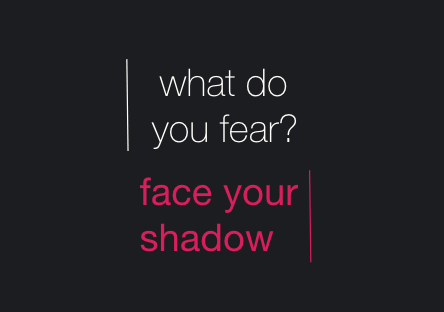
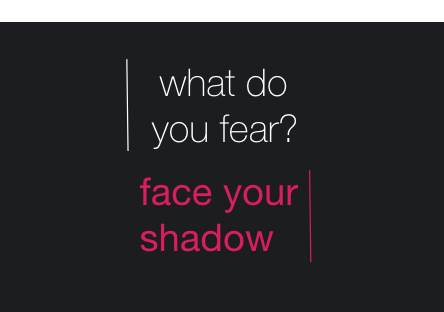
fixed file navigation to images, and cropped some images too

Changed region(s): [[0.0, 0.0, 1.0, 0.0865]]

diff --git a/index.html b/index.html
@@ -35,13 +35,13 @@
                 </ol>
                 <div class="carousel-inner">
                   <div class="carousel-item active">
-                    <img src="/assets/agassiDribbble.png" class="d-block w-100" alt="...">
+                    <img src="assets/agassiDribbble.png" class="d-block w-100" alt="...">
                   </div>
                   <div class="carousel-item">
-                    <img src="/assets/deleDribbble.png" class="d-block w-100" alt="...">
+                    <img src="assets/deleDribbble.png" class="d-block w-100" alt="...">
                   </div>
                   <div class="carousel-item">
-                    <img src="/assets/shartDribbble.png" class="d-block w-100" alt="...">
+                    <img src="assets/shartDribbble.png" class="d-block w-100" alt="...">
                   </div>
                 </div>
                 <a class="carousel-control-prev" href="#carouselExampleIndicators" role="button" data-slide="prev">
@@ -57,7 +57,7 @@
             <div class="col-md">
               <h3>Philosophy</h3>
               <p> <b> I love to </b> break things down to their core in order to fully understand it! <br> This interest came from Carl Jung's symbol of the <i> "shadow" </i></p>
-              <a class="btn btn-primary" href="https://www.youtube.com/watch?v=X-y2DddsWQ8" role="button">Link</a>
+              <a class="btn btn-primary" href="https://www.youtube.com/watch?v=X-y2DddsWQ8" role="button">Video</a>
             </div>
           </div>
         </center>
@@ -79,7 +79,7 @@
            <center>
             <h3> 1 Picture = 1000 Words </h3>
             <p> ...so 1 Video = 1000 Pictures = 1 mil. Words? </p>
-            <video width="400" height="240" controls="controls" src="/assets/ukulele.mp4">Your browser does not support the HTML5 Video element.</video>
+            <video width="400" height="240" controls="controls" src="assets/ukulele.mp4">Your browser does not support the HTML5 Video element.</video>
           </center>
         </div>
         <div class="col-sm">
@@ -125,7 +125,7 @@
       <div class="row">
         <div class="col-sm">
           <div class="card" style="width: 18rem;">
-            <img src="/assets/adobie.png" class="card-img-top" alt="...">
+            <img src="assets/adobie.png" class="card-img-top" alt="...">
             <div class="card-body">
               <h5 class="card-title">Activate</h5>
               <p class="card-text">App to Find Video Games</p>
@@ -135,7 +135,7 @@
         </div>
         <div class="col-sm">
           <div class="card" style="width: 18rem;">
-            <img src="/assets/boxing.png" class="card-img-top" alt="...">
+            <img src="assets/boxing.png" class="card-img-top" alt="...">
             <div class="card-body">
               <h5 class="card-title">Shadowboxing</h5>
               <p class="card-text">Mental Health + Productivity</p>
@@ -145,7 +145,7 @@
         </div>
         <div class="col-sm">
           <div class="card" style="width: 18rem;">
-            <img src="/assets/ub.png" class="card-img-top" alt="...">
+            <img src="assets/ub.png" class="card-img-top" alt="...">
             <div class="card-body">
               <h5 class="card-title">UBetcha</h5>
               <p class="card-text">Social Betting Platform</p>
